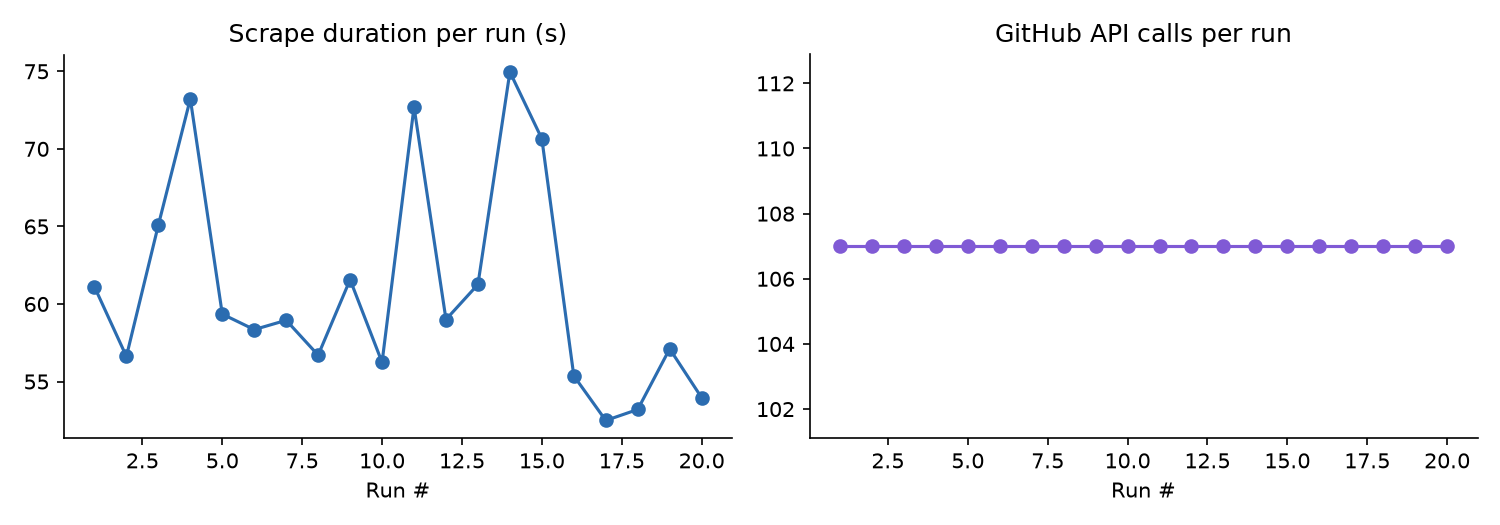
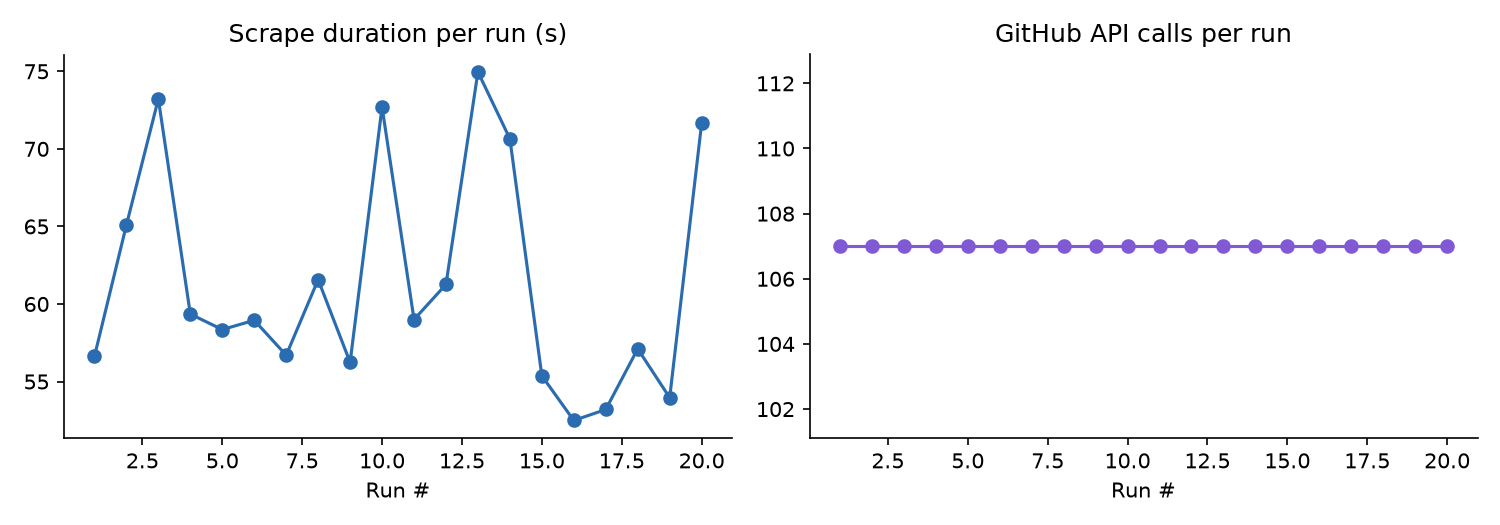
Weekly issue tracker refresh

Changed region(s): [[0.0613, 0.1219, 0.368, 0.701], [0.3373, 0.64, 0.4907, 0.8229], [0.46, 0.2133, 0.4907, 0.2743]]

diff --git a/README.md b/README.md
@@ -81,7 +81,7 @@ See [CONTRIBUTING.md](CONTRIBUTING.md) for the full contributor workflow — inc
 
 <!-- TRACKER:START -->
 
-_Last updated: 2026-07-22 23:38 UTC_
+_Last updated: 2026-07-23 00:03 UTC_
 
 _Tracking **18** upstream repos, **382** relevant open issues._
 
@@ -287,7 +287,7 @@ _Tracking **18** upstream repos, **382** relevant open issues._
 
 <!-- METRICS:START -->
 
-_Last run: 2026-07-22 23:37 UTC, took **54.0s**, **107** GitHub API calls, **4894/5000** rate limit remaining._
+_Last run: 2026-07-23 00:02 UTC, took **71.6s**, **107** GitHub API calls, **4788/5000** rate limit remaining._
 
 ![Scrape metrics trend](assets/metrics_trend.png)
 
